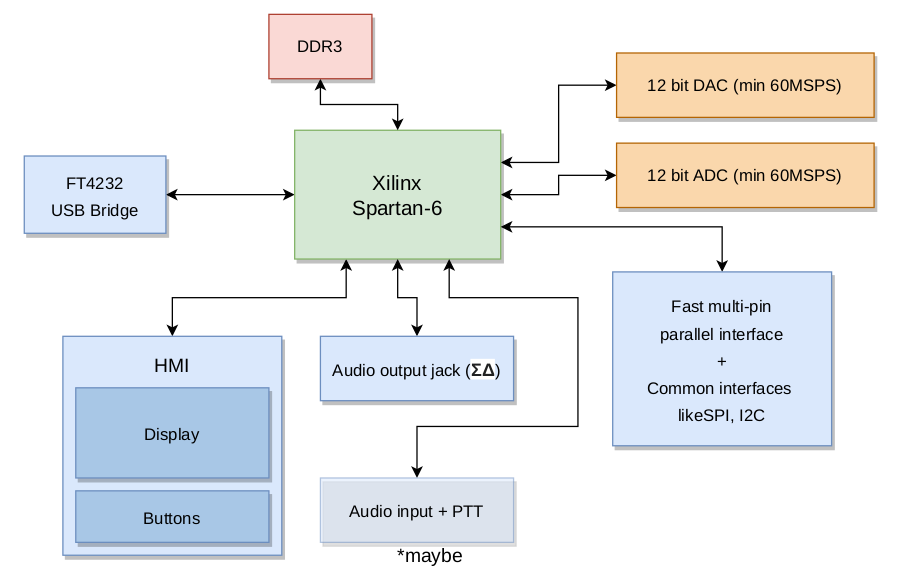
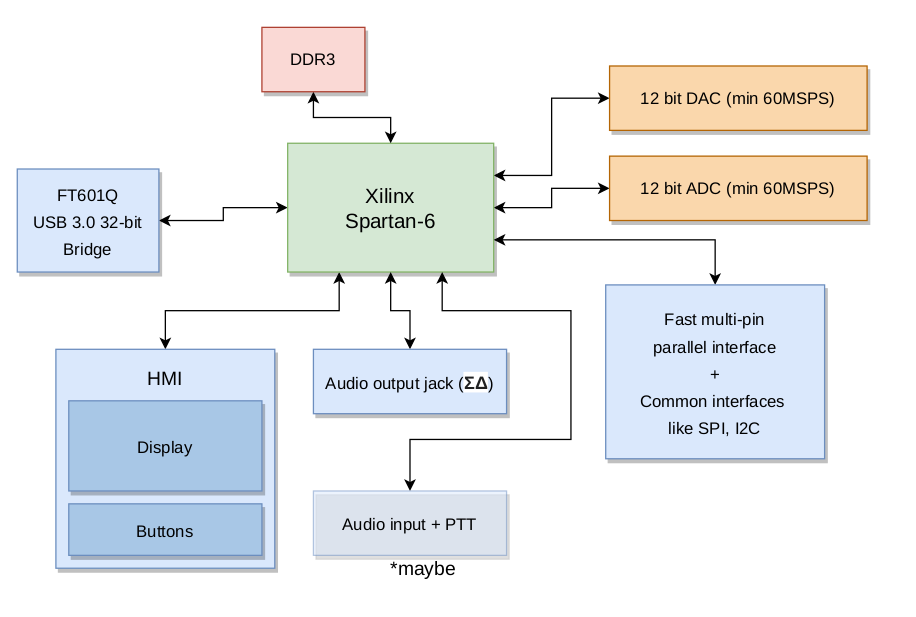
Changed FT4232 to FT601Q - for faster PC <-> FPGA transfers

Changed region(s): [[0.0, 0.0, 0.9782, 0.9897], [0.3668, 0.2784, 0.4891, 0.3711]]

diff --git a/README.md b/README.md
@@ -8,18 +8,19 @@ Can be used also as portable radio receiver and transmitter - SDR.
 
 ## What i have done so far
 1. Conceptional works - just made a block diagram with components of project
+2. Swapped FT4232 to FT601Q - to make PC - FPGA interface FASTER!
 
 ## But how does it work?
 SiNGTool can work both with PC or standalone using embedded display.
 
 It can pipe RF samples from ADC to PC, or from PC to DAC,  
-using a high-speed FT4232HL usb bridge interface.
+using a USB 3.0 bridge interface.
 
 There is a portable mode, where You can watch waveforms/spectrums  
 on the display, and generate Your own on the go!  
 All You need will be headphones,and microphone with PTT button.
 
-FPGA can be configurated also over FT4232HL  
+FPGA can be configurated also over FT601Q  
 by bitbanging the configuration pins.
 
 
